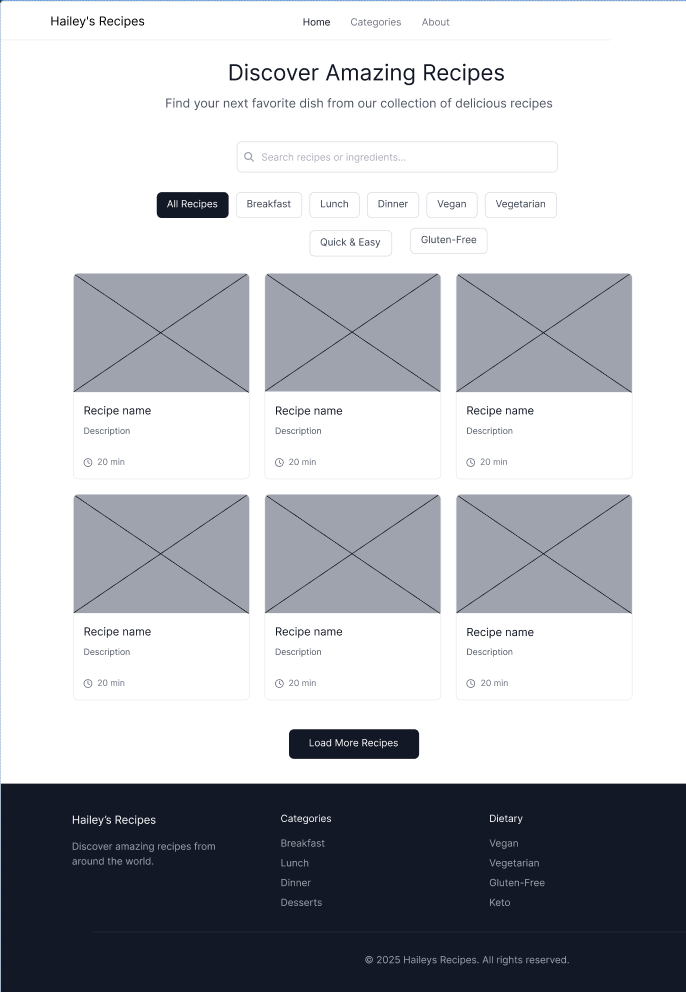
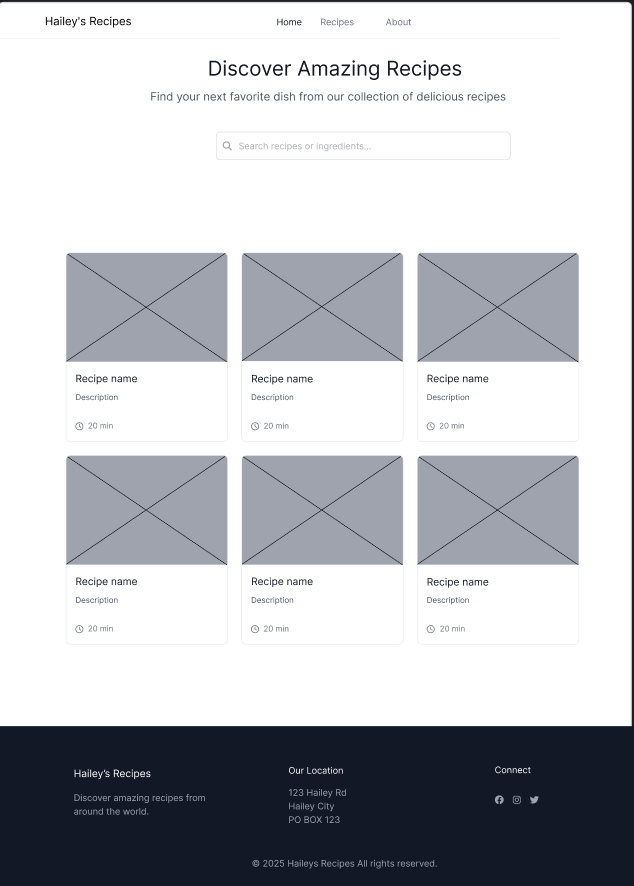
Search recipes, updated wireframe pics
Display recipes as user types in search box. Wireframe pictures updated.

diff --git a/assets/javascript/script.js b/assets/javascript/script.js
@@ -49,6 +49,9 @@ function displayRecipeCards(recipeArray) {
   let recipeSection = document.getElementById("recipes");
   let noRecipesFoundMessage = document.getElementById("no-recipes");
 
+  recipeSection.innerHTML = ""; 
+  // Clear any old cards for when searching recipes
+
   // show no recipes found message
   if (recipeArray.length === 0) {
     noRecipesFoundMessage.style.display = "block";
@@ -159,6 +162,34 @@ function showRecipePageDetails(recipe) {
   `; // Display No Category if not available
 }
 
+/**
+ * Function to find recipes.
+ * It listens for typing and shows recipes that match the text.
+ */
+function searchRecipes() {
+  let searchBox = document.getElementById("search-input");
+
+  if (searchBox) {
+    searchBox.addEventListener("input", function () {
+      // Get what the user typed and make it lowercase
+      let searchText = searchBox.value.toLowerCase();
+
+      // Make a new list of recipes that match the search
+      let foundRecipes = allRecipes.filter(function (recipe) {
+        // Check if the name, instructions or category include what the user typed
+        let name = recipe.strMeal.toLowerCase().includes(searchText);
+        let instruction = recipe.strInstructions.toLowerCase().includes(searchText);
+        let category = recipe.strCategory.toLowerCase().includes(searchText);
+
+        return name || instruction || category;
+      });
+
+      // Show the filtered recipes
+      displayRecipeCards(foundRecipes);
+    });
+  }
+}
+
 // Start the app when the page is ready
 document.addEventListener("DOMContentLoaded", async function () {
   // Check which page has loaded
@@ -169,6 +200,7 @@ document.addEventListener("DOMContentLoaded", async function () {
   if (recipeHomePage) {
     allRecipes = await fetchRecipesFromFile();
     displayRecipeCards(allRecipes);
+    searchRecipes();
   }
   // If we're on the recipe details page
   if (recipePage) {

diff --git a/index.html b/index.html
@@ -39,16 +39,7 @@
     <section class="hero">
         <h1>Discover Amazing Recipes</h1>
         <p>Find your next favorite dish from our collection of delicious recipes</p>
-        <input type="text" placeholder="Search recipes or ingredients..." />
-        <div class="filter-buttons">
-            <button class="active">All</button>
-            <button>Breakfast</button>
-            <button>Lunch</button>
-            <button>Dinner</button>
-            <button>Vegan</button>
-            <button>Vegetarian</button>
-            <button>Quick & Easy</button>
-        </div>
+        <input type="text" id="search-input" placeholder="Search recipes or ingredients..." />
     </section>
     <!-- Search Section End -->
 

diff --git a/README.md b/README.md
@@ -102,7 +102,7 @@ These helped me figure out how to keep things simple and clean.
 
 <p align="center">
   <strong>Recipe Page Wireframe</strong><br>
-  <img src="documentation/wireframes/figma/recipe-wireframe.png" alt="Recipe page Wireframe" width="300" />
+  <img src="documentation/wireframes/figma/recipe-page-wireframe.png" alt="Recipe page Wireframe" width="300" />
 </p>
 
 <p align="center">
@@ -122,7 +122,7 @@ These helped me figure out how to keep things simple and clean.
 
 <p align="center">
   <strong>Mobile Recipe Page Wireframe</strong><br>
-  <img src="documentation/wireframes/figma/recipe-mobile-wireframe.png" alt="Mobile recipe page Wireframe" width="300" />
+  <img src="documentation/wireframes/figma/mobile-recipe-page-wireframe.png" alt="Mobile recipe page Wireframe" width="300" />
 </p>
 
 <p align="center">
